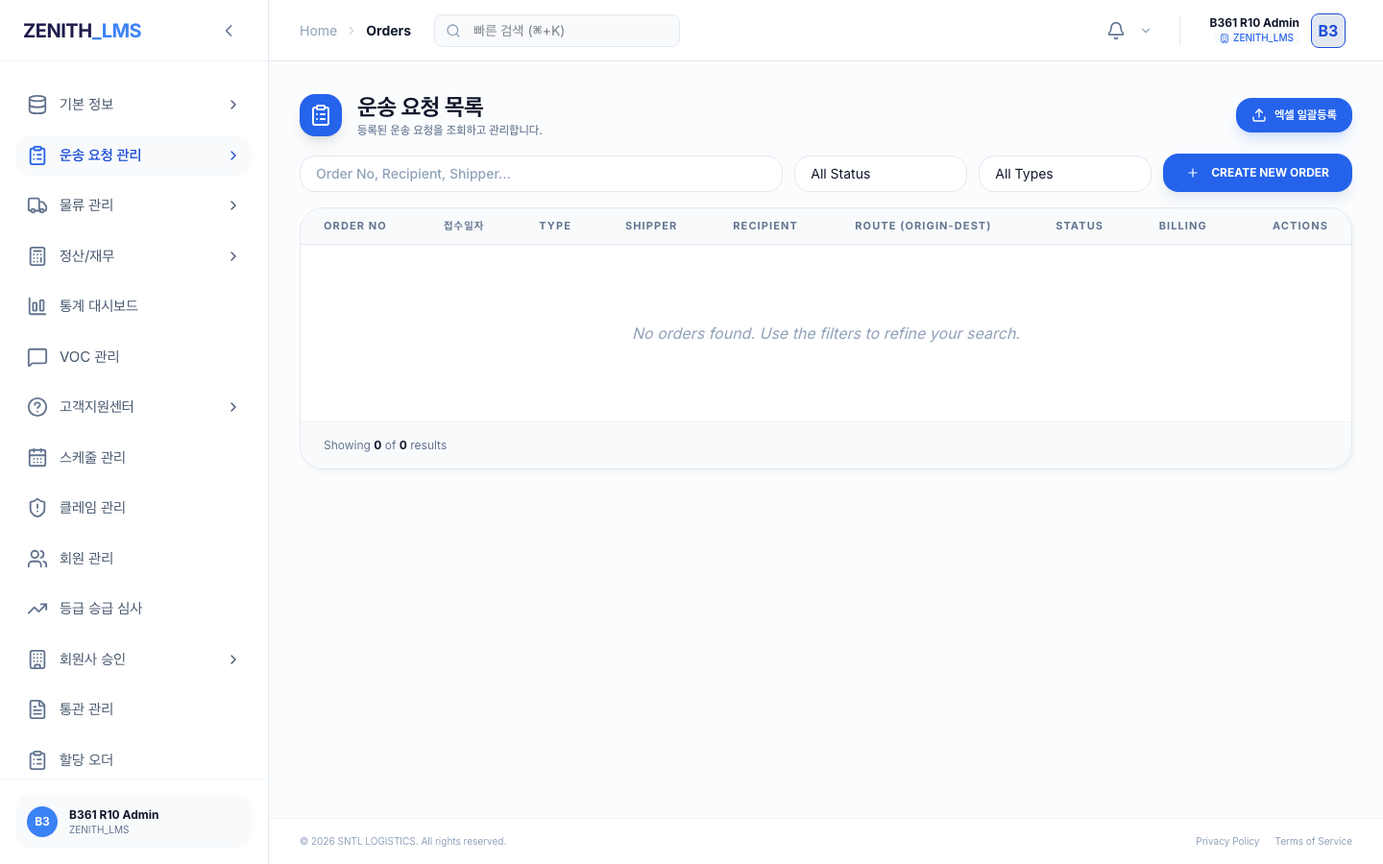
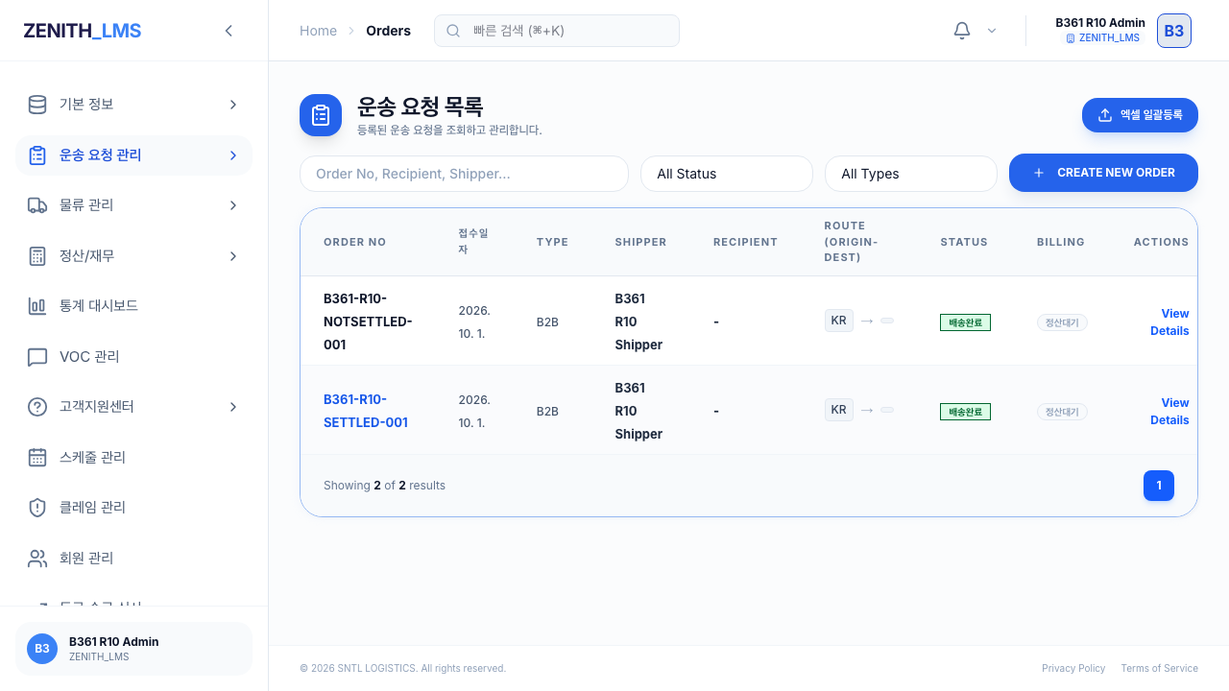
[Baker] docs: TASK-B-361 ⒝ R-10 SETTLED 시드 증적·취소 확인 회귀 반영 (Closes #1367)

diff --git a/.agent/tasks/TASK-B-361_261122_Issue1367_BillingStatementUI.md b/.agent/tasks/TASK-B-361_261122_Issue1367_BillingStatementUI.md
@@ -99,7 +99,7 @@ $ gh issue list --state all --search "TASK-B-361 in:title"
 | 심볼 | grep 참조처 | ⒜ 변경 | 비고 |
 |:--|:--|:--|:--|
 | 서버 액션 8종 | B-360 테스트, `api/finance/statements/[id]/export/route.ts`, 신규 8페이지·6컴포넌트 | **소비자만 추가**, 액션 본체 미수정 | 액션의 `revalidatePath('/finance/statements')`·`('/agency/statements')`가 신규 라우트와 정합 |
-| `Statements` i18n | 신규 컴포넌트 6종 + 3 테스트 | 신규 네임스페이스 78키(⒜) + ⒝ `excel` 1키 → **79키 × 4로케일** | 기존 키 참조 0, `Errors` 키 변경 0 |
+| `Statements` i18n | 신규 컴포넌트 6종 + 3 테스트 | 신규 네임스페이스 78키(⒜) + ⒝ `excel` 1키 + 취소 확인 3키 → **82키 × 4로케일** | 기존 키 참조 0, `Errors` 키 변경 0 |
 | `NaviSidebar.tsx` | `(dashboard)/layout.tsx` | **⒝ 메뉴 3종 추가** | "정산/재무" children에 `/finance/statements`, "대리점 관리" children 마지막에 `/agency/statements`, 화주 메뉴 끝에 `/shipper/statements`. 노출은 기존 `checkPermission(role, href, allowedPaths)` 경로(부모 접두 `/finance`·`/agency`·`/shipper` 매칭)가 그대로 적용 → 별도 권한 코드 추가 없음 |
 | `rbac.ts` `ALL_RESOURCE_PATHS` | 권한 관리 화면 | **변경 없음 (⒝ 실측 판정)** | `/finance`·`/agency`·`/shipper` 상위 경로가 이미 등록되어 있고 `checkPermission`은 접두 매칭 — 세부 경로 등록 불필요. 로컬 `zen_role_permissions` 실측: ADMIN=`/finance`, AGENCY=`/agency`, SHIPPER·AGENCY_SHIPPER=`/shipper` 상위 경로 보유 |
 | `proxy.ts` 비플랫폼 허용 목록 | 미들웨어 라우팅 | **변경 없음 (⒝ 실측 판정)** | 비플랫폼(`orgType !== 'PLATFORM'`)은 `purePath.startsWith(allowedRoot)`로 `/agency`·`/shipper` 하위 전체 허용 → 신규 경로 자동 허용. `/finance/statements`는 ADMIN·ZENITH_SUPER_ADMIN(PLATFORM) 전용이라 이 분기 대상 아님 |
@@ -109,7 +109,7 @@ $ gh issue list --state all --search "TASK-B-361 in:title"
 ### 2-8. i18n 실측
 
 - ⒜: `Statements` 네임스페이스 **78키 × ko/en/zh/ja 동일 키셋**(key set 비교 PASS). 신규 `Errors` 키 없음 — `errors-key-sync` 기대 110키 유지.
-- ⒝: `Statements.excel` 1키 추가 → **79키 × 4로케일 동일**. `Navigation`에 `statements_nav`·`shipper_statements_nav` 신규 2키, 기존 `shipper_invoices_nav`에 `(기존)`/`(Legacy)` 접미 부여(설계 §6-5c). 4로케일 모두 동일 키 반영, `Errors` 110키 유지. `npm run check:i18n` 전역 FAIL은 기존 DEF-B-156(ja 519키 누락)이며 신규 키 누락은 0.
+- ⒝: `Statements.excel` 1키 + 취소 확인 3키(`cancelConfirmTitle`·`cancelWarning`·`cancelConfirm`) 추가 → **82키 × 4로케일 동일**. `Navigation`에 `statements_nav`·`shipper_statements_nav` 신규 2키, 기존 `shipper_invoices_nav`에 `(기존)`/`(Legacy)` 접미 부여(설계 §6-5c). 4로케일 모두 동일 키 반영, `Errors` 110키 유지. `npm run check:i18n` 전역 FAIL은 기존 DEF-B-156(ja 519키 누락)이며 신규 키 누락은 0.
 
 ## 3. [발견 이슈]
 
@@ -117,7 +117,7 @@ _담당 Task 범위 밖 이슈 / 설계·DTO 간극_
 
 | DEF# | 제목 | 긴급도 | 상세 |
 |:--|:--|:--|:--|
-| DEF-B-156(기존) | `npm run check:i18n` 감사 FAIL — ja 로케일이 en 대비 519키 누락(기존 523 → 신규 키 일부 반영으로 감소) | Low | `.agent/defects/DEF-B-156_i18n_ja로케일_523키누락_감사FAIL.md`. 본 Task의 `Statements` 79키(⒝ `excel` 포함)는 4로케일 모두 존재(실패 목록에 `Statements.*` 없음). stash 비교 없이도 base `ja.json`이 25 top-level key뿐임을 확인 → 기존 결함. 범위 밖이라 미수정. |
+| DEF-B-156(기존) | `npm run check:i18n` 감사 FAIL — ja 로케일이 en 대비 519키 누락(기존 523 → 신규 키 일부 반영으로 감소) | Low | `.agent/defects/DEF-B-156_i18n_ja로케일_523키누락_감사FAIL.md`. 본 Task의 `Statements` 82키(⒝ `excel`·취소 확인 3키 포함)는 4로케일 모두 존재(실패 목록에 `Statements.*` 없음). stash 비교 없이도 base `ja.json`이 25 top-level key뿐임을 확인 → 기존 결함. 범위 밖이라 미수정. |
 | DEF-B-162 | `'use server'` 액션 파일의 비동기 아닌 export `normalizeShipperName`로 `npm run build` 전역 실패 | High → **해소됨** | `.agent/defects/DEF-B-162_청구서액션_비동기아닌_export_빌드실패.md`. B-360 ⒜(PR #1404) 산출물. **Mike/TASK-B-368(PR #1416, 2026-11-22 병합)**이 순수 유틸 `src/lib/finance/billing/normalize-shipper-name.ts`로 분리해 해소. 본 ⒜는 rebase 후 `StatementCreate.tsx`의 로컬 `normalize()`를 해당 공용 유틸 import로 교체(Jaison 2026-11-22 지시) — 규칙 단일 출처. |
 
 | 구분 | 내용 | 조치 |
@@ -133,14 +133,14 @@ _담당 Task 범위 밖 이슈 / 설계·DTO 간극_
 
 ## 4. [작업 결과]
 
-- 코드 커밋: ⒜ `85ade9850`(rebase) + 공용 유틸 `d08b83c5b` + Jaison 리뷰 수정 `aaeb5f7f0` / ⒝ `142b5a16b` → 재base 후 `081d945a9`
+- 코드 커밋: ⒜ `85ade9850`(rebase) + 공용 유틸 `d08b83c5b` + Jaison 리뷰 수정 `aaeb5f7f0` / ⒝ `142b5a16b` → 재base 후 `081d945a9` + 최종 취소 확인 `d3ff3a9c7`(문서 커밋은 직후 별도 커밋 — R-17 순서 준수)
 
 ### ⒜ PR (WBS 5.1~5.4, `Refs #1367`)
 - **공용 컴포넌트** `src/components/finance/statements/` 8파일 — `types.ts`(DTO·`formatKrw`·`isIssuerScope`), `Badges.tsx`(상태 3색/범위 배지), `StatementModals.tsx`(발행 경고·입금 전액 사전검증), `StatementsList.tsx`(S3 필터 5종+range 버튼 매트릭스), `StatementCreate.tsx`(S4 2단계·ADHOC·truncated/미정산 안내), `StatementDetail.tsx`(S5 상태별 작업영역), `index.ts`, `page-helpers.ts`(서버 가드).
 - **3경로 8페이지** — finance/agency: 목록·생성·상세, shipper: 목록·상세(조회 전용, `/new` 없음).
 - **i18n** — `Statements` 78키 × 4로케일 추가(리뷰 반영으로 `excludedUnsettled`·`goOrderSettlement` 2키 제거, `conditionsChanged`·`excludedUnsettledAdmin`·`excludedUnsettledAgency` 3키 추가). `Errors` 키 변경 0.
-- **회귀** — `tests/unit/components/statements/` 3파일 24케이스(모두 렌더 결과 단언). TC-361-09/26(역할별 링크 유무), TC-361-27/28(조회 조건 변경 무효화) 추가. R-09 항목 1건 신규 + `build:lrtm`/`check:lrtm` PASS.
-- **되돌리기 검증** — 아래 8건 모두 실제로 되돌려 FAIL 확인 후 복구(복구 후 24/24 재PASS, 잔존 마커 0). 7·8건째는 Jaison 리뷰 수정분:
+- **회귀** — `tests/unit/components/statements/` 3파일 30케이스(모두 렌더 결과 단언). TC-361-09/26(역할별 링크 유무), TC-361-27/28(조회 조건 변경 무효화), TC-361-32~34(취소 확인) 추가. R-09 항목 1건 신규 + `build:lrtm`/`check:lrtm` PASS.
+- **되돌리기 검증** — 아래 8건 모두 실제로 되돌려 FAIL 확인 후 복구(복구 후 30/30 재PASS, 잔존 마커 0). 7·8건째는 Jaison 리뷰 수정분:
 
 | 되돌린 구현 | 실패 테스트 | 실측 결과 |
 |:--|:--|:--|
@@ -154,14 +154,14 @@ _담당 Task 범위 밖 이슈 / 설계·DTO 간극_
 | 잘못된 `/${locale}/settlement` 링크 재삽입 | TC-361-09·26 | **FAIL** — 2 failed / 7 passed (09·26) |
 
 - **vacuous 패턴 0건** — 신규 테스트·컴포넌트 `grep -rnE 'test\.skip|readFileSync|toContain\(.*source|typeof .* === .function'` 결과 0.
-- **전체 회귀** — rebase 기준 `npm run test:regression` **287파일/2194케이스 전부 PASS(537초)**. stale `exceljs@4.4.0`을 `--no-save --no-package-lock`으로 재설치해 `task-b360-excel-export.test.ts`(19/19)까지 통과, 추적 파일 변경 없음. 리뷰 수정 후 동일 스위트 재실행 예정.
+- **전체 회귀** — rebase 기준 `npm run test:regression` **287파일/2194케이스 전부 PASS(537초)**. stale `exceljs@4.4.0`을 `--no-save --no-package-lock`으로 재설치해 `task-b360-excel-export.test.ts`(19/19)까지 통과, 추적 파일 변경 없음. 취소 확인 반영 후 최종 스위트 재실행 완료(아래 ⒝ 결과).
 
 ### Jaison 리뷰 수정 (2026-11-22, 🔴 2건 + 🟡 권고 접수)
 | # | 지적 | 조치 |
 |:--|:--|:--|
 | 🔴1 | 조회 후 대상·기간 변경 시 이전 후보/선택이 남아 저장됨 | 조회 조건 10종 스냅샷(`LookupConditions`) 비교로 `isStale` 산출 → 후보 표·미정산/상한 안내 숨김 + 저장 버튼 미렌더, `save()`도 방어. TC-361-27·28 + 되돌리기 7건째 |
 | 🔴2 | `/${locale}/settlement`은 인보이스 개요이며 `markOrderCostSettled` 호출 화면 부재 | 링크 제거, `canSettleOrders`(서버 역할 유래)로 Admin/대리점 문구 분기(4로케일). TC-361-09·26 + 되돌리기 8건째. S1·S2 미구현은 이슈에 질문 게시 |
-| 🟡 | 초안 취소 확인 없음 | ⒝ PR 이관(확인 단계 + 취소 클릭 시 서버 호출 0 단언) |
+| 🟡 | 초안 취소 확인 없음 | ⒝ 반영 완료 — S3·S5 취소 클릭은 `CancelConfirmModal` 오픈만, '취소 확정' 클릭 시에만 서버 호출. TC-361-07·32·33·34 + 되돌리기 3건 |
 | 🟡 | 금액 반올림 | 설계 §3-1b 근거 기재(의도적 `Math.round`), 변경 시 IMP |
 | 🟡 | `getOrganizations(1,500)` 잘림 | IMP 제안 이관 |
 | 🟡 | 연/월 vs 기간 독립 | 실측 기재(서버는 4값 그대로 전달, RPC는 연/월 범위만 검증) |
@@ -170,11 +170,11 @@ _담당 Task 범위 밖 이슈 / 설계·DTO 간극_
 - **메뉴 3종** `src/components/layout/NaviSidebar.tsx` — Admin "정산/재무" 그룹의 수입·비용 현황 다음에 `/finance/statements`, 대리점 "대리점 관리" 그룹 마지막에 `/agency/statements`, 화주는 기존 `청구서 조회` 아래에 `/shipper/statements`. 모두 기존 `checkPermission(role, href, allowedPaths)` 필터를 타므로 새 권한 분기 없음(§2-7).
 - **경로 허용 검토** — `rbac.ts`·`proxy.ts` **무변경**. 부모 접두 경로(`/finance`·`/agency`·`/shipper`)가 이미 등록·허용되어 세부 경로 추가가 불필요함을 로컬 `zen_role_permissions` 실측 + 코드 grep으로 확인.
 - **nav i18n** — `Navigation.statements_nav`·`shipper_statements_nav` 신규, `shipper_invoices_nav`에 `(기존)` 접미(4로케일 동시). `Statements.excel` 신규 → 78키.
-- **Excel 링크** — S3 각 행(`TC-361-26·27`)과 S5 상세(`TC-361-28`)에서 `/api/finance/statements/{id}/export` 링크 렌더. **조회 전용(RECEIVED·SUPERVISED)에서도 노출**, 변형 버튼은 계속 미렌더. 실제 Route Handler는 #1366 ⒝-2(PR #1411) 병합본 사용.
-- **회귀** — statements 테스트 21→24케이스, R-09 항목 Continued(TC-361-26~28), `build:lrtm` 재실행(25→28건, 전체 2,145→2,148건) + `check:lrtm` PASS(유령 0·허용목록 밖 미등재 0).
-- **되돌리기 검증 추가 2건** — 목록 Excel 링크 제거 시 TC-361-26·27 FAIL(2 failed/7 passed), 상세 Excel 링크 제거 시 TC-361-28 FAIL(1 failed/8 passed). 복구 후 24/24 재PASS, 잔존 마커 0. ⒜ 5건 + ⒝ 2건 = 총 7건.
+- **Excel 링크** — S3 각 행(`TC-361-29·30`)과 S5 상세(`TC-361-31`)에서 `/api/finance/statements/{id}/export` 링크 렌더. **조회 전용(RECEIVED·SUPERVISED)에서도 노출**, 변형 버튼은 계속 미렌더. 실제 Route Handler는 #1366 ⒝-2(PR #1411) 병합본 사용.
+- **회귀** — statements 테스트 27→30케이스(취소 확인 3건 추가), R-09 항목 Continued(TC-361-29~31 + 취소 확인 TC-361-32~34), `build:lrtm` 재실행 + `check:lrtm` PASS(유령 0·허용목록 밖 미등재 0).
+- **되돌리기 검증 추가 2건** — 목록 Excel 링크 제거 시 TC-361-29·30 FAIL(2 failed/7 passed), 상세 Excel 링크 제거 시 TC-361-31 FAIL(1 failed/8 passed). ⒜ 8건 + ⒝ Excel 2건 = 10건. 취소 확인 우회(`useEffect` 즉시 confirm) 추가 3건 — TC-361-07·32·33 FAIL(3 failed/27 passed) → 복구 후 30/30 재PASS, 잔존 마커 0. **총 13건**.
 - **vacuous 패턴 0건** — ⒝ 신규 테스트도 렌더 결과(`getByRole('link')` + href/download 속성)만 단언.
-- **전체 회귀** — `npm run test:regression` 286파일/**2189케이스** PASS(697.93초, ⒜ 2186 + ⒝ 3). `exceljs@4.4.0`은 ⒜에서 `--no-save --no-package-lock`으로 재설치한 상태 유지(추적 파일 변경 없음).
+- **전체 회귀(최종)** — 취소 확인·R-10 증적 반영 후 `npm run test:regression` **287파일/2203케이스 PASS(533.13초)**. `exceljs@4.4.0`은 ⒜에서 `--no-save --no-package-lock`으로 재설치한 상태 유지(추적 파일 변경 없음). `npm run build:lrtm`(2162건 인덱스) + `check:lrtm`(유령 0·허용목록 밖 미등재 0) + `check:ds11`(미반영 125건 모두 허용 목록) PASS.
 
 ## 5. 검증 (DoD)
 
@@ -201,30 +201,49 @@ _담당 Task 범위 밖 이슈 / 설계·DTO 간극_
 - [x] `NaviSidebar.tsx` 메뉴 3종(Admin 정산/재무·대리점 관리·화주) + nav i18n 4로케일 — 설계 §6-5c 위치 준수
 - [x] `rbac.ts`·`proxy.ts` 경로 허용 검토(§2-7 실측 결과 반영) — 부모 접두 경로로 이미 허용되어 **무변경 판정**, 근거 task file에 기재
 - [x] Excel 링크 → `/api/finance/statements/[id]/export`(S3 행·S5 상세, 조회 전용 포함) — 렌더 단언 3케이스(TC-361-29~31) + 되돌리기 2건
-- [x] 4로케일 `Statements` 79키 동일, `Navigation` 신규 2키 4로케일 반영, `Errors` 110키 유지 (`check:i18n` 전역 FAIL은 DEF-B-156)
+- [x] Jaison 권고 반영 — 초안 취소 확인 모달(`CancelConfirmModal`) S3·S5 적용. 클릭 시 서버 호출 0, '취소 확정' 시에만 호출. TC-361-07·32~34 + 되돌리기 3건
+- [x] 4로케일 `Statements` 82키 동일, `Navigation` 신규 2키 4로케일 반영, `Errors` 110키 유지 (`check:i18n` 전역 FAIL은 DEF-B-156)
 - [x] R-09 v3.10: TC-361-29~31 추가, `npm run build:lrtm` + `npm run check:lrtm` PASS(유령 0·허용목록 밖 미등재 0)
-- [x] 되돌리면 테스트 FAIL — §4 ⒝ 추가 2건 실측(⒜ 8건 + ⒝ 2건 = 총 10건)
+- [x] 되돌리면 테스트 FAIL — §4 ⒝ Excel 2건 + 취소 확인 3건 실측(⒜ 8건 + ⒝ 5건 = 총 13건)
 - [x] 컴포넌트 테스트 렌더 결과 단언, vacuous 패턴 0건
-- [ ] R-10 역할별(Admin·대리점·화주) 스크린샷 증적 + 실제 `page.goto()` 네비게이션 검증 — **SETTLED 오더 시드 + 무링크 안내 문구 확인 위해 재실행 예정**
+- [x] R-10 역할별(Admin·대리점·화주) 스크린샷 증적 + 실제 로그인·`page.goto()` 네비게이션 검증 — SETTLED/NOT_SETTLED 오더 시드 후 S4 조회로 역할별 무링크 안내 문구까지 확인(§6). 3/3 PASS, 스크린샷 8종
 - [x] `check-R17-DoD` 자가 검증 — ⒜ 동일 절차(코드 커밋 → 해시 삽입 → 문서 커밋 → PR) 준수
-- [ ] S1·S2 화면은 Jaison 판단으로 범위 외 — JSJung 확인 후 후속 Task 발령(본 PR에서 착수하지 않음)
+- [x] S1·S2 화면은 Jaison 판단으로 범위 외 — 본 PR에서 착수하지 않고 링크 제거·역할별 안내로 대체. JSJung 확인 후 후속 Task 발령 예정(본 PR에서는 미구현을 명시)
 
-## 6. R-10 실구동 증적 (⒝) — ⚠ SETTLED 시드 반영 재실행 예정
+## 6. R-10 실구동 증적 (⒝) — SETTLED 시드 반영 재실행 완료
 
-_아래는 ⒜ 리뷰 수정(오더정산 링크 제거·역할별 안내) 이전에 촬영한 스크린샷이다. SETTLED 오더 시드와 Admin/대리점 무링크 안내 문구 확인을 위해 재실행 후 갱신한다._
+_실제 IP 주소·계정·경로를 프로덕션 빌드 브라우저에서 확인한 기록. 스크린샷 저장: `docs/99_Manual/E2E_361_Result/`(R-13)._
 
-_원문 기록: IP 주소/계정/경로를 실제 브라우저에서 확인한 기록. 스크린샷 저장: `docs/99_Manual/E2E_361_Result/`(R-13)._
+### 6-1. SETTLED 오더 시드 방법 (Jaison 지시 — task file에 방법 기재)
 
-실행: `npx next start -p 3008`(프로덕션 빌드) + Playwright 3케이스, **3/3 PASS(15.6초)**. 각 케이스에서 (1) 실제 로그인 성공 후 리다이렉트, (2) 역할별 사이드바 메뉴 노출(`청구서 관리` / `청구서 (월 차수)`), (3) `page.goto()`로 대상 경로 직접 진입 — HTTP < 400 + `청구서 관리` 헤딩 렌더, (4) pageerror·console error 0건을 확인함. 단위 테스트(서버 액션 mock)가 아닌 **실제 미들웨어(`proxy.ts`) 라우팅까지 검증** — R-10·AGENTS.md 필수 검증 항목(2026-07-22) 준수.
+`zen_orders`가 0건이므로 아래 SQL을 **로컬 Supabase에만** 적용했다(`npx supabase db query --local`은 다중 명령을 지원하지 않아 문장별 실행). 프로덕션/원격 DB에는 적용하지 않음.
+
+| 단계 | SQL(요약) | 목적 |
+|:--|:--|:--|
+| 0 | `DELETE FROM order_status_history WHERE order_id IN (SELECT id FROM zen_orders WHERE order_no LIKE 'B361-R10-%');` / `DELETE FROM zen_orders WHERE order_no LIKE 'B361-R10-%';` / `DELETE FROM zen_agency_shippers WHERE agency_org_id='80e10b0c-…' AND shipper_org_id='e7ee09d9-…';` | 멱등성(재실행 시 잔여 제거) |
+| 1 | `UPDATE zen_organizations SET status='ACTIVE' WHERE id='80e10b0c-a417-437c-ad58-a689c05e5af6';` | Admin 생성 화면 대상 드롭다운은 `getOrganizations(1,500)`이 `status='ACTIVE'`만 반환 → R-10 대리점을 ACTIVE로 변경 |
+| 2 | `INSERT INTO zen_agency_shippers (agency_org_id, shipper_org_id, shipper_type, is_active) VALUES ('80e10b0c-…', 'e7ee09d9-…', 'CORPORATE', true);` | AGENCY 생성 화면 ORG 대상 자격 검증(`zen_agency_shippers.is_active`) 통과용. `shipper_type` CHECK 제약은 `INDIVIDUAL`/`CORPORATE`만 허용 |
+| 3 | `INSERT INTO zen_orders (order_no, cargo_details, status, transport_mode, agency_org_id, shipper_id, shipper_name, shipper_biz_no, cost_settlement_status, cost_settled_at, cost_settled_by, order_date, created_at, updated_at) VALUES ('B361-R10-SETTLED-001', …, 'DELIVERED', 'UPS', '80e10b0c-…', 'e7ee09d9-…', …, 'SETTLED', '2026-10-16 09:00+09', '827dd41a-…', …), ('B361-R10-NOTSETTLED-001', …, 'NOT_SETTLED', NULL, NULL, …);` | SETTLED 1건=후보 행, NOT_SETTLED 1건=「미정산 1건 제외」안내 문구 생성. `cost_settlement_status='SETTLED'`는 CHECK 제약상 `cost_settled_at`·`cost_settled_by` 필수 |
+| 4 | `INSERT INTO order_status_history (order_id, prev_status, next_status, reason, created_at) SELECT id, 'IN_TRANSIT', 'DELIVERED', 'TASK-B-361 R10 seed', '2026-10-15 10:00+09' FROM zen_orders WHERE order_no LIKE 'B361-R10-%';` | 기준일(`dateBasis='DELIVERED'`) — 조회 기간 2026-10-01~10-31 KST 안에 들어오도록 2026-10-15 10:00 KST로 설정 |
+
+> 시드 원문: `/private/var/folders/q0/sjq5239j66b86fpl4xfbl_b40000gn/T/opencode/b361-r10-seed.sql`(로컬 임시 파일, 저장소 미포함). 위 표와 동일한 SQL을 문장별로 실행하면 재현 가능.
+
+### 6-2. 실구동 결과
+
+실행: `npm run build` → `npx next start -p 3008`(프로덕션) + Playwright 3케이스, **3/3 PASS(14.5초)**. 각 케이스에서 (1) 실제 로그인 성공 후 리다이렉트, (2) 역할별 사이드바 메뉴 노출(`청구서 관리` / `청구서 (월 차수)`), (3) `page.goto()`로 목록 경로 직접 진입 — HTTP < 400 + `청구서 관리` 헤딩, (4) Admin·AGENCY는 생성 경로에도 `page.goto()` 진입 → 대상 선택·기간 입력 후 「후보 오더 조회」로 SETTLED 후보 1건 + 역할별 무링크 안내 문구 렌더 확인, `a[href*="order-settlement"]` 0건, (5) pageerror·console error 0건을 확인했다. 단위 테스트(서버 액션 mock)가 아닌 **실제 미들웨어(`proxy.ts`) 라우팅까지 검증** — R-10·AGENTS.md 필수 검증 항목(2026-07-22) 준수.
 
 | 역할 | 계정(RBAC role) | 실제 네비게이션 | 확인 결과 | 증적 |
 |:--|:--|:--|:--|:--|
-| ADMIN | `r10b361admin@zenith.kr` (ADMIN / PLATFORM) | 로그인 → 메뉴 `청구서 관리` 노출 → `page.goto('/ko/finance/statements')` | **PASS** — HTTP 200, 헤딩 `청구서 관리`, errors 0 | `admin_01_login.png`·`admin_02_statements.png` |
-| AGENCY | `r10b361agency@zenith.kr` (AGENCY / AGENCY) | 로그인 → 메뉴 `청구서 관리` 노출 → `page.goto('/ko/agency/statements')` | **PASS** — HTTP 200, 헤딩 `청구서 관리`, errors 0 | `agency_01_login.png`·`agency_02_statements.png` |
-| 화주 | `r10b361shipper@zenith.kr` (AGENCY_SHIPPER / SHIPPER) | 로그인 → 메뉴 `청구서 (월 차수)` 노출 → `page.goto('/ko/shipper/statements')` | **PASS** — HTTP 200, 헤딩 `청구서 관리`, errors 0 | `shipper_01_login.png`·`shipper_02_statements.png` |
+| ADMIN | `r10b361admin@zenith.kr` (ADMIN / PLATFORM) | 로그인 → 메뉴 `청구서 관리` → `page.goto('/ko/finance/statements')` → `page.goto('/ko/finance/statements/new')` | **PASS** — HTTP < 400, 헤딩·후보 `B361-R10-SETTLED-001`·안내 문구(화면 없음) 렌더, errors 0 | `admin_01_login.png`·`admin_02_statements.png`·`admin_03_create_notice.png` |
+| AGENCY | `r10b361agency@zenith.kr` (AGENCY / AGENCY) | 로그인 → 메뉴 `청구서 관리` → `page.goto('/ko/agency/statements')` → `page.goto('/ko/agency/statements/new')` | **PASS** — HTTP < 400, 헤딩·후보 1건·안내 문구(관리자 요청) 렌더, errors 0 | `agency_01_login.png`·`agency_02_statements.png`·`agency_03_create_notice.png` |
+| 화주 | `r10b361shipper@zenith.kr` (AGENCY_SHIPPER / SHIPPER) | 로그인 → 메뉴 `청구서 (월 차수)` → `page.goto('/ko/shipper/statements')` | **PASS** — HTTP < 400, 헤딩 렌더, 생성 버튼·`/new` 링크 0건, errors 0 | `shipper_01_login.png`·`shipper_02_statements.png` |
 
 > 화주 계정은 초기에 `CORPORATE`로 만들었으나 `checkPermission`이 `/shipper` 경로를 `SHIPPER`·`AGENCY_SHIPPER`에만 허용(`rbac.ts` §rolePaths)하므로 사이드바에 화주 메뉴가 노출되지 않았다. roles spec §5 기준의 `AGENCY_SHIPPER`로 재설정한 뒤 3/3 PASS. 이 실측으로 rbac/proxy 무변경 판정(상위 경로 접두 허용)이 실제 브라우저에서도 확인됨.
 >
+> **Admin 안내 문구는 임시** — 오더정산(S1·S2) 화면이 미구현이어서「오더정산 화면이 없어 정산 처리가 불가합니다」로 표시한다. S1·S2가 후속 Task로 발령되면 해당 링크/화면으로 교체한다(Jaison 2026-11-22T04:02:42Z). AGENCY는「관리자에게 정산 처리를 요청하세요」를 유지.
+>
 > 에러 로그 확인 — 無 (R-10 v3.6): ⒝는 신규 서버 액션/API 라우트를 추가하지 않고 기존 병합본(#1366 PR #1411) Excel Route Handler를 링크만 했으므로 ⒝ 기인 신규 ERROR 없음. 배포 후 `/admin/error-logs` 최종 확인은 JSJung 담당(병합 후).
 >
-> ⚠ 기존 ⒝ 검증 당시에는 DEF-B-162로 `npm run build`가 실패해 로컬 검증용으로만 해당 export를 일시 비공개화해 프로덕션 빌드 후 `next start`로 실구동 확인했고 **임시 수정은 커밋하지 않고 원복**함(`git diff` 0 확인). 재base 후에는 Mike/TASK-B-368(PR #1416) 병합으로 DEF-B-162가 해소되어 임시 수정 없이 프로덕션 빌드 가능.
+> ⚠ 기존 ⒝ 검증 당시에는 DEF-B-162로 `npm run build`가 실패해 로컬 검증용으로만 해당 export를 일시 비공개화해 프로덕션 빌드 후 `next start`로 실구동 확인했고 **임시 수정은 커밋하지 않고 원복**함. 재base 후에는 Mike/TASK-B-368(PR #1416) 병합으로 DEF-B-162가 해소되어 **임시 수정 없이 `npm run build` PASS** 확인.
+>
+> ⚠ 로컬 Supabase `db query` 실행 시 5개 테이블(`_profiles_grade_backup_20260521`, `zen_customs_history`, `zen_invoice_history`, `zen_master_order_history`, `zen_ups_shxk_country_map`)의 RLS 비활성 경고가 매 번 출력됨 — 기존 환경 경고이며 본 Task 범위 밖이므로 자동 remediation 하지 않음(정책 결정은 소유자). 최종 조치 여부는 JSJung에게 보고.

diff --git a/docs/08_Self_Audit/Checklists/regression-items/TASK-B-361_Issue1367_billing-statement-ui.md b/docs/08_Self_Audit/Checklists/regression-items/TASK-B-361_Issue1367_billing-statement-ui.md
@@ -7,7 +7,7 @@
 | **대상 모듈 (231 연동)** | `src/components/finance/statements/*`, `src/app/[locale]/(dashboard)/{finance,agency,shipper}/statements/*`, `src/components/layout/NaviSidebar.tsx`, `messages/{ko,en,zh,ja}.json` |
 | **검증 차원 (231 D1~D9)** | D1(업무 분기), D3-A(권한 라우팅·앱), D5(상태 전이), D9(UI·i18n) |
 
-> ⒜ PR(`Refs #1367`) + ⒝ PR(`Closes #1367`) 공용 항목표. ⒝에서 메뉴 3종·nav i18n·Excel 링크(TC-361-26~28)를 추가했고, 경로 허용 목록은 R-20 grep 전수 검토 결과 변경 불필요로 판정(task file §2-7). R-10 역할별 스크린샷은 별도 증적.
+> ⒜ PR(`Refs #1367`) + ⒝ PR(`Closes #1367`) 공용 항목표. ⒝에서 메뉴 3종·nav i18n·Excel 링크(TC-361-29~31)·취소 확인(TC-361-32~34)을 추가했고, 경로 허용 목록은 R-20 grep 전수 검토 결과 변경 불필요로 판정(task file §2-7). R-10 역할별 스크린샷은 별도 증적.
 
 | ID | 테스트 항목 | 기대 결과 | 파일 경로 | 실행 구분 |
 |:--|:--|:--|:--|:--:|
@@ -17,7 +17,7 @@
 | TC-361-04 | Admin 감독 조회 DRAFT 행 렌더 | DRAFT가 조회되되 `취소`·`입금확인` 미렌더 | 동일 | CI (vitest) |
 | TC-361-05 | 조회 범위 필터 | `감독 조회` 선택 시 감독 행만 잔류 | 동일 | CI (vitest) |
 | TC-361-06 | 생성 버튼 노출 | `canCreate` true일 때만 `/new` 링크 렌더 | 동일 | CI (vitest) |
-| TC-361-07 | 초안 취소 | `cancelBillingStatement(id)` 호출 후 해당 행 제거 | 동일 | CI (vitest) |
+| TC-361-07 | 초안 취소 확인 | 취소 클릭은 모달만 열고 서버 호출 0 → '취소 확정' 시 `cancelBillingStatement(id)` 호출 후 행 제거 | 동일 | CI (vitest) |
 | TC-361-08 | 후보 조회 상한 | `truncated=true`이면 상한 경고 렌더 | `tests/unit/components/statements/statement-create.test.tsx` | CI (vitest) |
 | TC-361-09 | 미정산 오더 안내(Admin) | `excludedUnsettled=3`이면 Admin용 문구만 렌더, 오더정산 링크 없음 | 동일 | CI (vitest) |
 | TC-361-10 | 후보 표 화주명 열 | 오더별 화주명·기준일 열과 값 렌더 | 동일 | CI (vitest) |
@@ -32,7 +32,7 @@
 | TC-361-19 | 입금액 불일치 | 서버 호출 없이 전액 경고 렌더 | 동일 | CI (vitest) |
 | TC-361-20 | 입금확인 성공 | `paidAt`·전액 전달 후 `마감` 상태 전이 | 동일 | CI (vitest) |
 | TC-361-21 | 조회 실패 | 찾을 수 없음 화면 + 서버 error 문구 그대로 표시 | 동일 | CI (vitest) |
-| TC-361-22 | 4로케일 `Statements` 키 일치 | ko/en/zh/ja 78키 동일(⒝ `excel` 키 포함), ICU 플레이스홀더 일치, `Errors` 110키 유지 | `tests/unit/i18n/errors-key-sync.test.ts`, `npm run check:i18n` | CI (vitest) + 수동 |
+| TC-361-22 | 4로케일 `Statements` 키 일치 | ko/en/zh/ja 82키 동일(⒝ `excel`·취소 확인 3키 포함), ICU 플레이스홀더 일치, `Errors` 110키 유지 | `tests/unit/i18n/errors-key-sync.test.ts`, `npm run check:i18n` | CI (vitest) + 수동 |
 | TC-361-23 | R-09 인덱스 동기화 | `npm run build:lrtm` 후 `npm run check:lrtm` PASS | 본 문서 | CI (수동 실행) |
 | TC-361-24 | 역할별 실제 로그인·네비게이션 | Admin/대리점/화주 계정으로 각 3경로 `page.goto()` 접근 — 조회 범위·버튼 노출 확인 | `tests/e2e/` (⒝ PR에서 추가) | CI 미실행 (수동 E2E) |
 | TC-361-25 | `/admin/error-logs` severity=ERROR | 신규 오류 0건 | 수동 확인 | CI 미실행 (수동) |
@@ -42,10 +42,13 @@
 | TC-361-29 | 목록 Excel 링크 (내 청구) | `/api/finance/statements/{id}/export` href + `download` 속성 렌더 | `tests/unit/components/statements/statements-list.test.tsx` | CI (vitest) |
 | TC-361-30 | 목록 Excel 링크 (읽기 전용) | RECEIVED 행도 변형 버튼 없이 Excel 링크 렌더 | 동일 | CI (vitest) |
 | TC-361-31 | 상세 Excel 링크 (읽기 전용) | RECEIVED 상세도 Excel 링크 렌더, 작업 영역은 미렌더 | `tests/unit/components/statements/statement-detail.test.tsx` | CI (vitest) |
+| TC-361-32 | 목록 취소 모달 닫기 | '닫기' 클릭 시 서버 호출 0, 행 유지, 모달 소멸 | `tests/unit/components/statements/statements-list.test.tsx` | CI (vitest) |
+| TC-361-33 | 상세 취소 클릭은 확인만 | `취소(삭제)` 클릭 시 서버 호출 0·모달 렌더, '닫기' 후에도 라우팅 없음 | `tests/unit/components/statements/statement-detail.test.tsx` | CI (vitest) |
+| TC-361-34 | 상세 취소 확정 | '취소 확정' 클릭 시 서버 호출 후 목록(`/{locale}/finance/statements`)으로 이동 | 동일 | CI (vitest) |
 
 ## 되돌리기(Revert) 검증 결과
 
-⒜ 8건 + ⒝ 2건 = 총 10건을 2026-11-22 실제로 구현을 되돌려 `npx vitest run`을 실행한 뒤 즉시 복구하여 확인함(복구 후 26/26 재PASS, REVERT CHECK 잔존 0). ⒜ 6~8건째는 공용 유틸 값 단언·리뷰 수정, ⒝ 9~10건째는 Excel 링크 검증.
+⒜ 8건 + ⒝ Excel 2건 + 취소 확인 3건 = 총 13건을 2026-11-22 실제로 구현을 되돌려 `npx vitest run`을 실행한 뒤 즉시 복구하여 확인함(복구 후 **30/30 재PASS**, REVERT CHECK 잔존 0). ⒜ 6~8건째는 공용 유틸 값 단언·리뷰 수정, ⒝ 9~10건째는 Excel 링크, 11~13건째는 취소 확인 우회 검증.
 
 | 되돌릴 구현 (실제 조작) | 기대 실패 테스트 | 실제 결과 (실측) |
 |:--|:--|:--|
@@ -59,9 +62,10 @@
 | `/${locale}/settlement` 오더정산 링크 재삽입 | TC-361-09·26 (역할별 링크 없음 단언) | **FAIL** — 2 failed / 7 passed (09·26) |
 | ⒝ `StatementsList`의 Excel 링크 블록 제거 | TC-361-29·30 | **FAIL** — 2 failed / 7 passed (29·30) |
 | ⒝ `StatementDetail`의 Excel 링크 블록 제거 | TC-361-31 | **FAIL** — 1 failed / 8 passed (31) |
+| ⒝ `CancelConfirmModal` 확인 단계 우회(`useEffect(() => { if (open) void confirm(); }, [])`) | TC-361-07·32·33 | **FAIL** — 3 failed / 27 passed (07·32·33) |
 
 ### Jaison 리뷰 대응 (2026-11-22)
 
 - 🔴 조회 후 조건 변경 시 이전 후보·선택이 남아 저장되는 문제 — `LookupConditions` 10종 스냅샷 비교로 `isStale` 산출, 후보 표·안내 숨김 + 저장 차단(TC-361-27·28).
 - 🔴 `/${locale}/settlement`은 인보이스 개요이며 `markOrderCostSettled` 호출 화면이 없음 — 링크 제거, 서버 역할 유래 `canSettleOrders`로 Admin/대리점 안내 문구 분기(TC-361-09·26, 4로케일). S1·S2 화면 미구현은 이슈에 질문 게시.
-- 🟡 취소 확인(⒝ 이관), 반올림 근거(설계 §3-1b), `getOrganizations(1,500)` 잘림(IMP), 연/월-기간 독립(실측 기재) 접수.
+- 🟡 취소 확인은 ⒝에 반영 완료 — S3·S5 모두 확인 모달 경유, 취소 클릭 시 서버 호출 0(TC-361-07·32~34, 되돌리기 3건). 반올림 근거(설계 §3-1b), `getOrganizations(1,500)` 잘림(IMP), 연/월-기간 독립(실측 기재) 접수.

diff --git a/docs/08_Self_Audit/Checklists/LIVE_REGRESSION_TEST_MAP.md b/docs/08_Self_Audit/Checklists/LIVE_REGRESSION_TEST_MAP.md
@@ -12,7 +12,7 @@
 
 - **스캔 범위**: `tests/**/*.{test,spec}.{ts,tsx}` (`tests/e2e/**`, `tests/poc-*/**` 제외 — `vitest.config.ts` 기준)
 - **실측 테스트 파일 수**: **287개**
-- **실측 테스트 케이스 수 (`it`/`test` 블록)**: **2,156건**
+- **실측 테스트 케이스 수 (`it`/`test` 블록)**: **2,162건**
 - **신규 구조 등재 Task 수**: **14건**
 
 ---
@@ -38,7 +38,7 @@
 | **TASK-B-366** | #1376 | - | - | 19건 | `tests/unit/finance/task-b366-cost-settlement.test.ts`, `tests/integration/task-b366-cost-settlement.test.ts` | - | [상세](./regression-items/TASK-B-366_Issue1376_cost-settlement-actions.md) |
 | **TASK-B-365** | #1375 | - | - | 10건 | `tests/unit/migrations/taskb365-cost-settlement-columns.test.ts` | - | [상세](./regression-items/TASK-B-365_Issue1375_cost-settlement-columns.md) |
 | **TASK-B-364** | #1374 | - | - | 10건 | `tests/unit/ups/actual-cost-compute.test.ts`, `tests/unit/finance/task-b364-cost-integration.test.ts`, `tests/unit/components/billing-confirm-modal-preview.test.tsx` | - | [상세](./regression-items/TASK-B-364_Issue1374_cost-integration.md) |
-| **TASK-B-361** | #1367 | Team B | 2026-11-22 | 28건 | `tests/unit/components/statements/statements-list.test.tsx`, `tests/unit/components/statements/statement-create.test.tsx`, `tests/unit/components/statements/statement-detail.test.tsx`, `tests/unit/i18n/errors-key-sync.test.ts` | D1, D3, D5, D9 | [상세](./regression-items/TASK-B-361_Issue1367_billing-statement-ui.md) |
+| **TASK-B-361** | #1367 | Team B | 2026-11-22 | 34건 | `tests/unit/components/statements/statements-list.test.tsx`, `tests/unit/components/statements/statement-create.test.tsx`, `tests/unit/components/statements/statement-detail.test.tsx`, `tests/unit/i18n/errors-key-sync.test.ts` | D1, D3, D5, D9 | [상세](./regression-items/TASK-B-361_Issue1367_billing-statement-ui.md) |
 | **TASK-B-360** | #1366 | Team B | 2026-11-21 | 45건 | `tests/integration/task-b360-billing-statements.test.ts`, `tests/unit/finance/task-b360-billable-limits.test.ts`, `tests/integration/task-b360-excel-export.test.ts`, `tests/unit/finance/task-b360-excel-data.test.ts` | D1, D5, D6, D8 | [상세](./regression-items/TASK-B-360_Issue1366_billing-statement-actions.md) |
 | **TASK-B-359** | #1365 | - | - | 8건 | `tests/unit/migrations/taskb359-billing-statement-db.test.ts` | - | [상세](./regression-items/TASK-B-359_Issue1365_billing-statement-db.md) |
 | **TASK-B-357** | #1351 | - | - | 5건 | `tests/unit/shxk/task-b357-shxk-lib-logging.test.ts` | - | [상세](./regression-items/TASK-B-357_Issue1351_shxk-lib-logging.md) |
